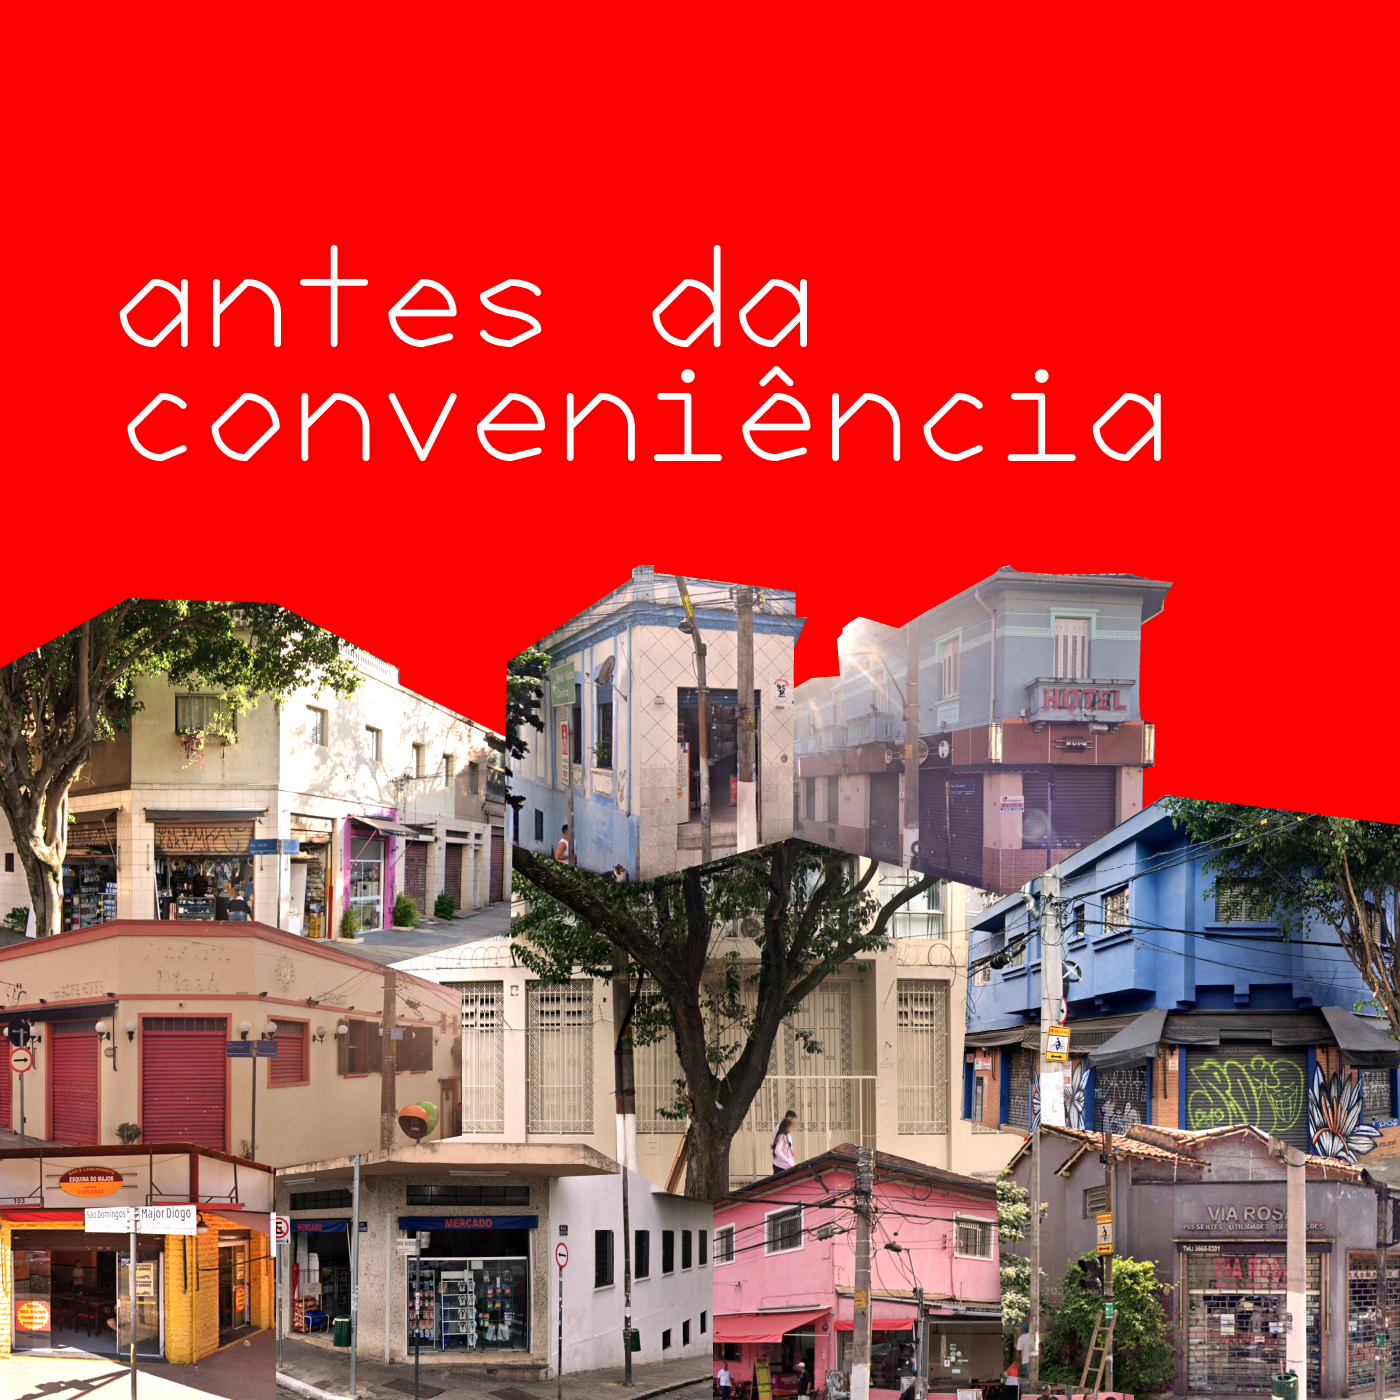
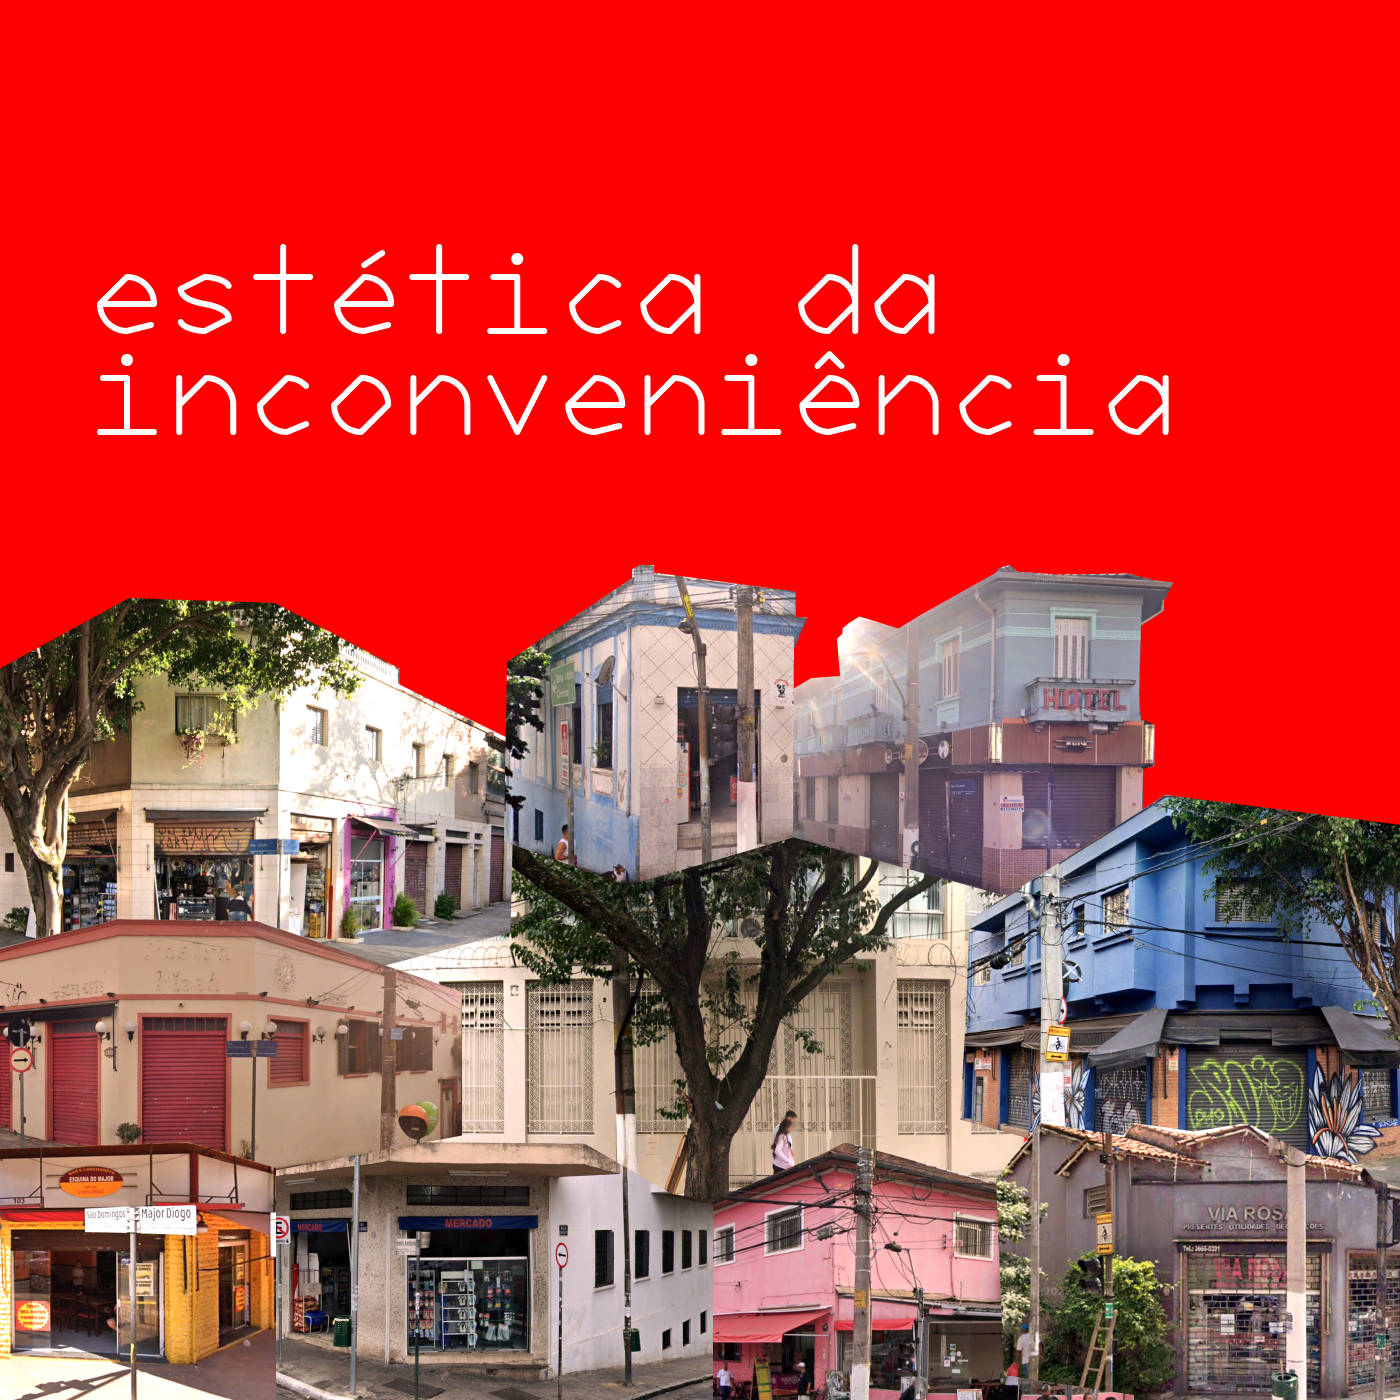
update def

Changed region(s): [[0.0614, 0.1843, 0.86, 0.3379]]

diff --git a/index.html b/index.html
@@ -2,11 +2,11 @@
 
 <head>
   <meta charset="utf-8">
-  <title>antes da conveniência</title>
+  <title>estética da inconveniência</title>
 
-  <meta property="og:title" content="antes da conveniência" />
+  <meta property="og:title" content="estética da inconveniência" />
   <meta property="og:type" content="website" />
-  <meta property="og:url" content="https://github.com/gableria/antes-da-conveniencia" />
+  <meta property="og:url" content="https://github.com/gableria/estetica-da-inconveniencia" />
   <meta property="og:image" content="images/capa-4.png" />
 
    <!-- Bootstrap CSS -->
@@ -30,7 +30,7 @@
 
   <nav class="navbar" style="background-color:red;">
       <div class="container-fluid">
-        <a class="navbar-brand" href="index.html" style="color:#ffffff">antes da conveniência</a>
+        <a class="navbar-brand" href="index.html" style="color:#ffffff">estética da inconveniência</a>
         <a href="sobre.html" style="color:#ffffff; text-decoration:none;" alt="sobre">/sobre</a>
       </div>
   </nav>

diff --git a/sobre.html b/sobre.html
@@ -2,11 +2,11 @@
 
 <head>
   <meta charset="utf-8">
-  <title>antes da conveniência</title>
+  <title>estética da inconveniência</title>
 
-  <meta property="og:title" content="antes da conveniência - sobre" />
+  <meta property="og:title" content="estética da inconveniência - sobre" />
   <meta property="og:type" content="website" />
-  <meta property="og:url" content="https://gableria.github.io/antes-da-conveniencia/sobre" />
+  <meta property="og:url" content="https://gableria.github.io/estetica-da-inconveniencia/sobre" />
   <meta property="og:image" content="images/capa-4.png" />
 
    <!-- Bootstrap CSS -->
@@ -30,7 +30,7 @@
 
   <nav class="navbar" style="background-color:red;">
       <div class="container-fluid">
-        <a class="navbar-brand" href="index.html" style="color:#ffffff">antes da conveniência</a>
+        <a class="navbar-brand" href="index.html" style="color:#ffffff">estética da inconveniência</a>
         <a href="index.html" style="color:#ffffff">voltar</a>
       </div>
   </nav>
